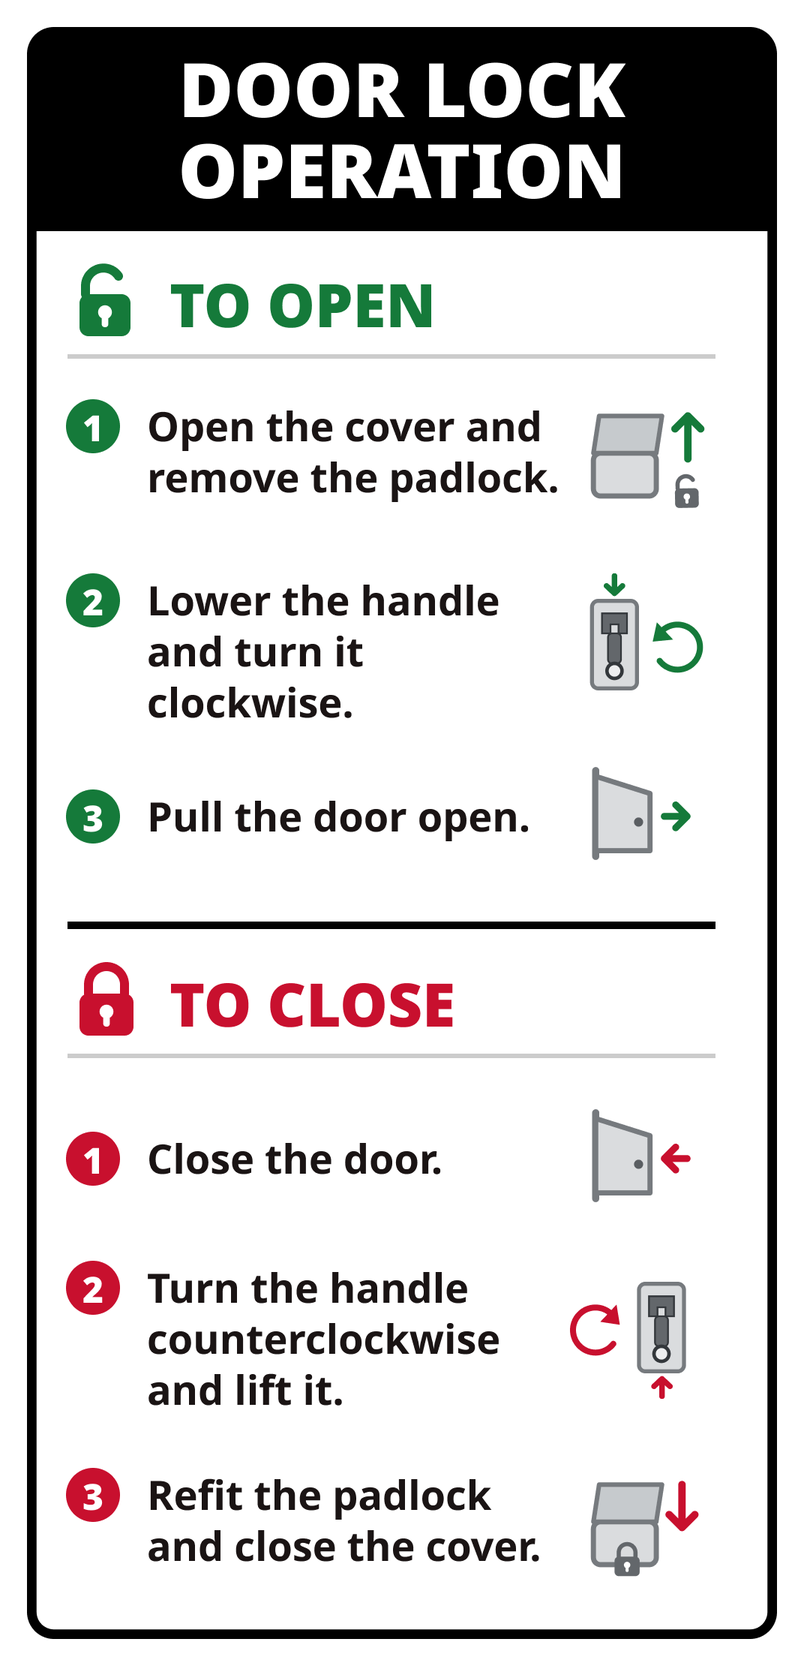
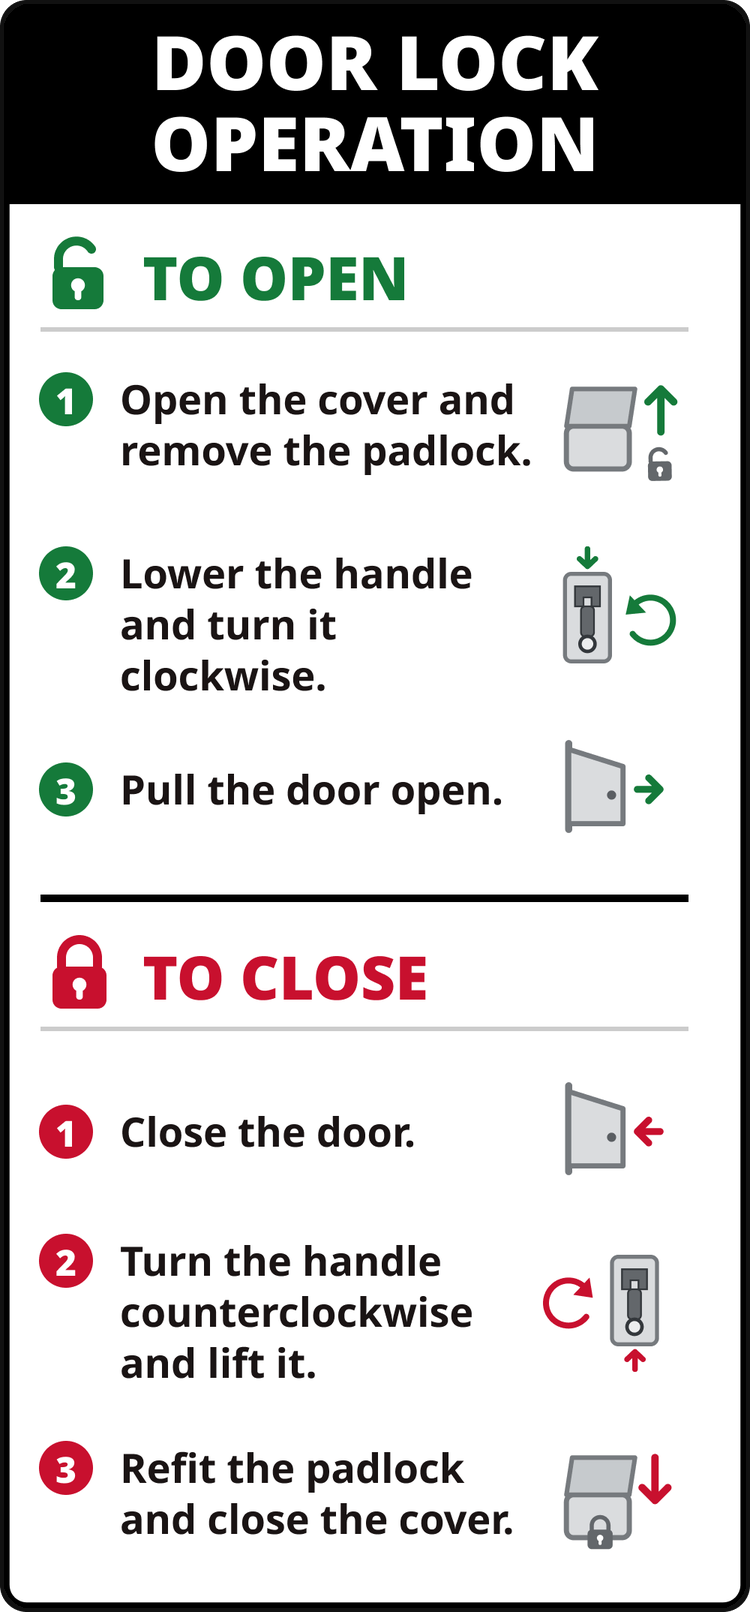
Thesis project page: labels on a theme grey plate, site link style for the prototype
The paper around each label is now transparent, so no white corners on dark.

Claude-Session: https://claude.ai/code/session_01NgnytpXYzdBBA3D9ePeBqf

Changed region(s): [[0.0, 0.0, 1.0, 1.0]]

diff --git a/work/warning-labels.html b/work/warning-labels.html
@@ -22,7 +22,7 @@
   <link rel="preload" href="../fonts/inter-latin.woff2" as="font" type="font/woff2" crossorigin>
   <link rel="stylesheet" href="../css/fonts.css?v=20261020lang">
   <link rel="stylesheet" href="../css/style.css?v=20261031r4">
-  <style>.p-motion video { display: block; width: 100%; height: auto; } .p-motion .row > video { flex: 1 1 0%; width: 0; min-width: 0; } @media (max-width: 639px) { .p-motion .row > video { flex: none; width: 100%; } } .p-cap .p-cta { margin-top: 1.5em; } .p-cta a { display: inline-flex; align-items: center; gap: .6em; min-height: 48px; padding: .6em 1.3em; background: var(--ink); color: var(--paper); font-size: var(--fs-ui); line-height: 1.2; text-decoration: none; } .p-cta a::after { content: "\2192"; transition: transform .3s var(--ease); } .p-cta a:hover::after { transform: translateX(.25em); } .p-cta a:focus-visible { outline: 2px solid var(--ink); outline-offset: 3px; } .p-note { color: var(--muted); }</style>
+  <style>.p-motion video { display: block; width: 100%; height: auto; } .p-motion .row > video { flex: 1 1 0%; width: 0; min-width: 0; } @media (max-width: 639px) { .p-motion .row > video { flex: none; width: 100%; } } .p-cap .p-cta { margin-top: 1.2em; } .p-art .row.plate { background: var(--soft); padding: var(--g); } .p-note { color: var(--muted); }</style>
   <meta name="color-scheme" content="light dark">
   <meta name="theme-color" content="#ffffff">
   <style>html{background:#fff}html[data-theme="dark"]{background:#0d0d0d}@media (prefers-color-scheme:dark){html:not([data-theme="light"]){background:#0d0d0d}}</style>
@@ -63,7 +63,7 @@
 
   <main id="main">
     <figure class="p-hero is-fit" data-hero>
-      <img src="../img/wl-arc-before-after.png" alt="Arc flash warning label before and after the redesign" width="1054" height="756" fetchpriority="high" decoding="async">
+      <img src="../img/wl-arc-before-after.png" alt="Arc flash warning label before and after the redesign" width="970" height="672" fetchpriority="high" decoding="async">
     </figure>
     <header class="p-head">
       <h1>Inspection Ready</h1>
@@ -76,7 +76,7 @@
     </div>
     <section class="p-sec" aria-labelledby="d-directions">
       <div class="p-art">
-        <div class="row">
+        <div class="row plate">
           <img src="../img/wl-v1.png" alt="First design direction for an electrical equipment warning label" width="480" height="336" style="--ar:1.4285714285714286" loading="lazy" decoding="async">
           <img src="../img/wl-v2.png" alt="Second design direction for an electrical equipment warning label in portrait format" width="336" height="480" style="--ar:0.7" loading="lazy" decoding="async">
           <img src="../img/wl-v3.png" alt="Third design direction for an electrical equipment warning label" width="480" height="336" style="--ar:1.4285714285714286" loading="lazy" decoding="async">
@@ -89,7 +89,7 @@
     </section>
     <section class="p-sec" aria-labelledby="d-revisions">
       <div class="p-art">
-        <div class="row">
+        <div class="row plate">
           <img src="../img/wl-after-us.png" alt="Revised US version of an electrical equipment warning label" width="480" height="336" style="--ar:1.4285714285714286" loading="lazy" decoding="async">
           <img src="../img/wl-after-ca.png" alt="Revised Canadian version of an electrical equipment warning label" width="480" height="336" style="--ar:1.4285714285714286" loading="lazy" decoding="async">
         </div>
@@ -101,7 +101,7 @@
     </section>
     <section class="p-sec" aria-labelledby="d-arc">
       <div class="p-art">
-        <div class="row">
+        <div class="row plate">
           <img src="../img/wl-arc-before.png" alt="Arc flash warning label before revision" width="384" height="576" style="--ar:0.6666666666666666" loading="lazy" decoding="async">
           <img src="../img/wl-arc-after.png" alt="Arc flash warning label after revision" width="480" height="672" style="--ar:0.7142857142857143" loading="lazy" decoding="async">
         </div>
@@ -113,11 +113,11 @@
     </section>
     <section class="p-sec" aria-labelledby="d-personnel">
       <div class="p-art">
-        <div class="row">
-          <img src="../img/wl-qp-caution-person.png" alt="CAUTION label with a person at an equipment panel: qualified personnel only" width="326" height="579" style="--ar:0.5630397236614854" loading="lazy" decoding="async">
-          <img src="../img/wl-qp-notice-person.png" alt="NOTICE label with the same person at the panel: qualified personnel only" width="326" height="579" style="--ar:0.5630397236614854" loading="lazy" decoding="async">
-          <img src="../img/wl-qp-caution-prohibition.png" alt="CAUTION label with a crossed-out walking figure: qualified personnel only" width="326" height="579" style="--ar:0.5630397236614854" loading="lazy" decoding="async">
-          <img src="../img/wl-door-lock.png" alt="Door lock operation label with three illustrated steps to open the door and three to close it" width="402" height="833" style="--ar:0.48259303721488594" loading="lazy" decoding="async">
+        <div class="row plate">
+          <img src="../img/wl-qp-caution-person.png" alt="CAUTION label with a person at an equipment panel: qualified personnel only" width="301" height="554" style="--ar:0.5433212996389891" loading="lazy" decoding="async">
+          <img src="../img/wl-qp-notice-person.png" alt="NOTICE label with the same person at the panel: qualified personnel only" width="301" height="554" style="--ar:0.5433212996389891" loading="lazy" decoding="async">
+          <img src="../img/wl-qp-caution-prohibition.png" alt="CAUTION label with a crossed-out walking figure: qualified personnel only" width="301" height="554" style="--ar:0.5433212996389891" loading="lazy" decoding="async">
+          <img src="../img/wl-door-lock.png" alt="Door lock operation label with three illustrated steps to open the door and three to close it" width="375" height="806" style="--ar:0.4652605459057072" loading="lazy" decoding="async">
         </div>
       </div>
       <div class="p-cap">
@@ -139,7 +139,7 @@
       <div class="p-cap">
         <h2 id="d-website">Website</h2>
         <p>The finished website: home, label library and product pages, on desktop and phone.</p>
-        <p class="p-cta"><a href="../prototypes/switchgear-website/">Try the prototype</a></p>
+        <p class="p-cta"><a class="arrow-link" href="../prototypes/switchgear-website/">Try the prototype</a></p>
       </div>
     </section>
     <div class="p-text p-note">
